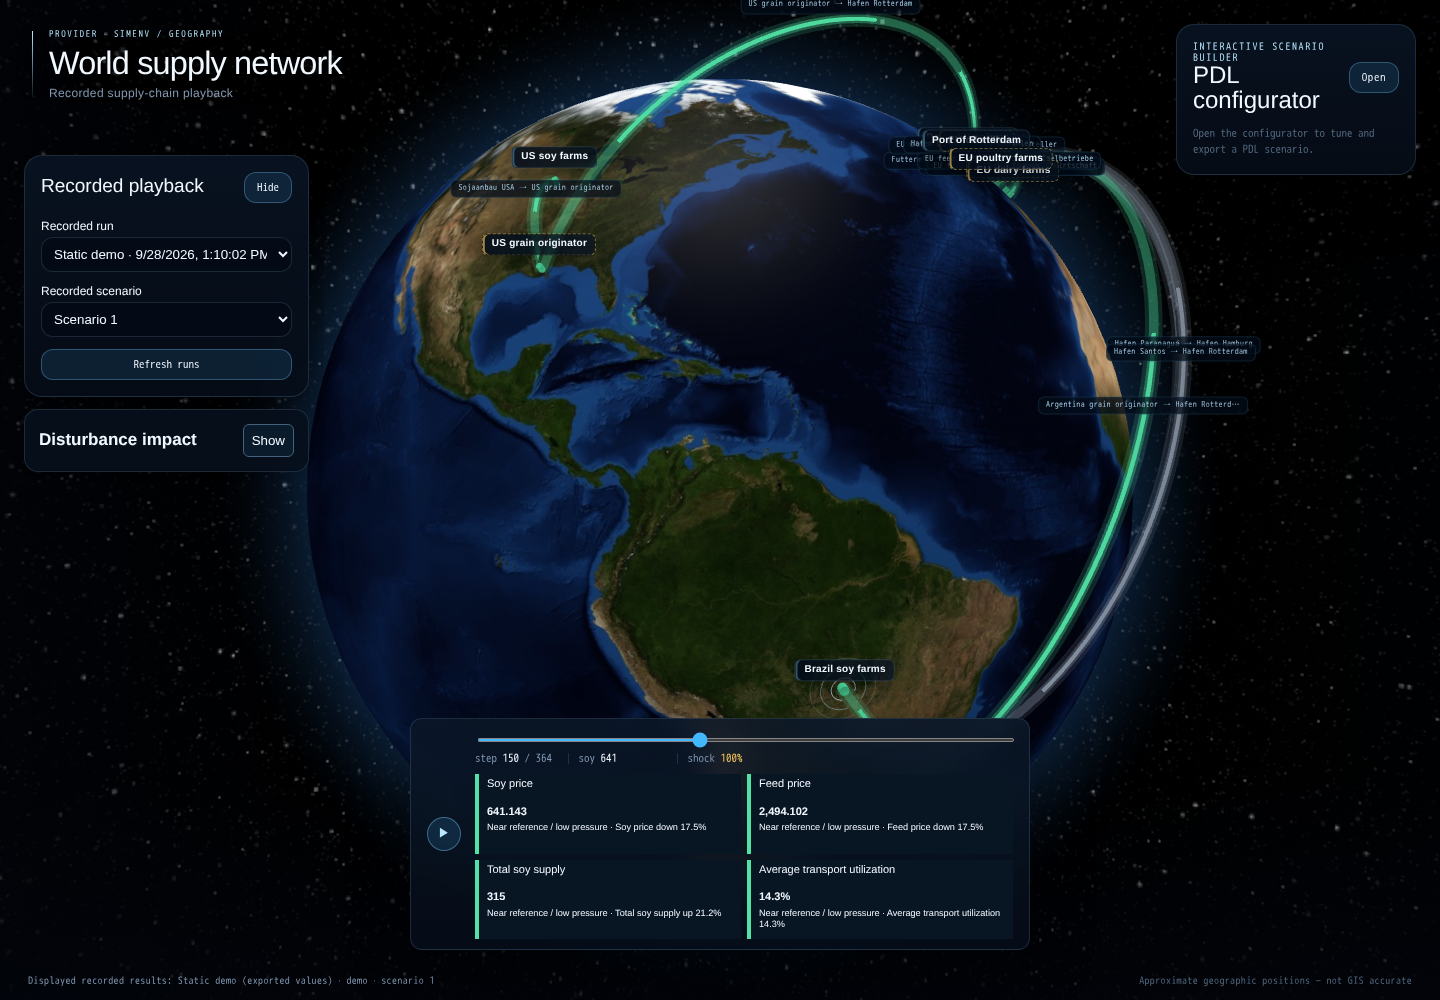
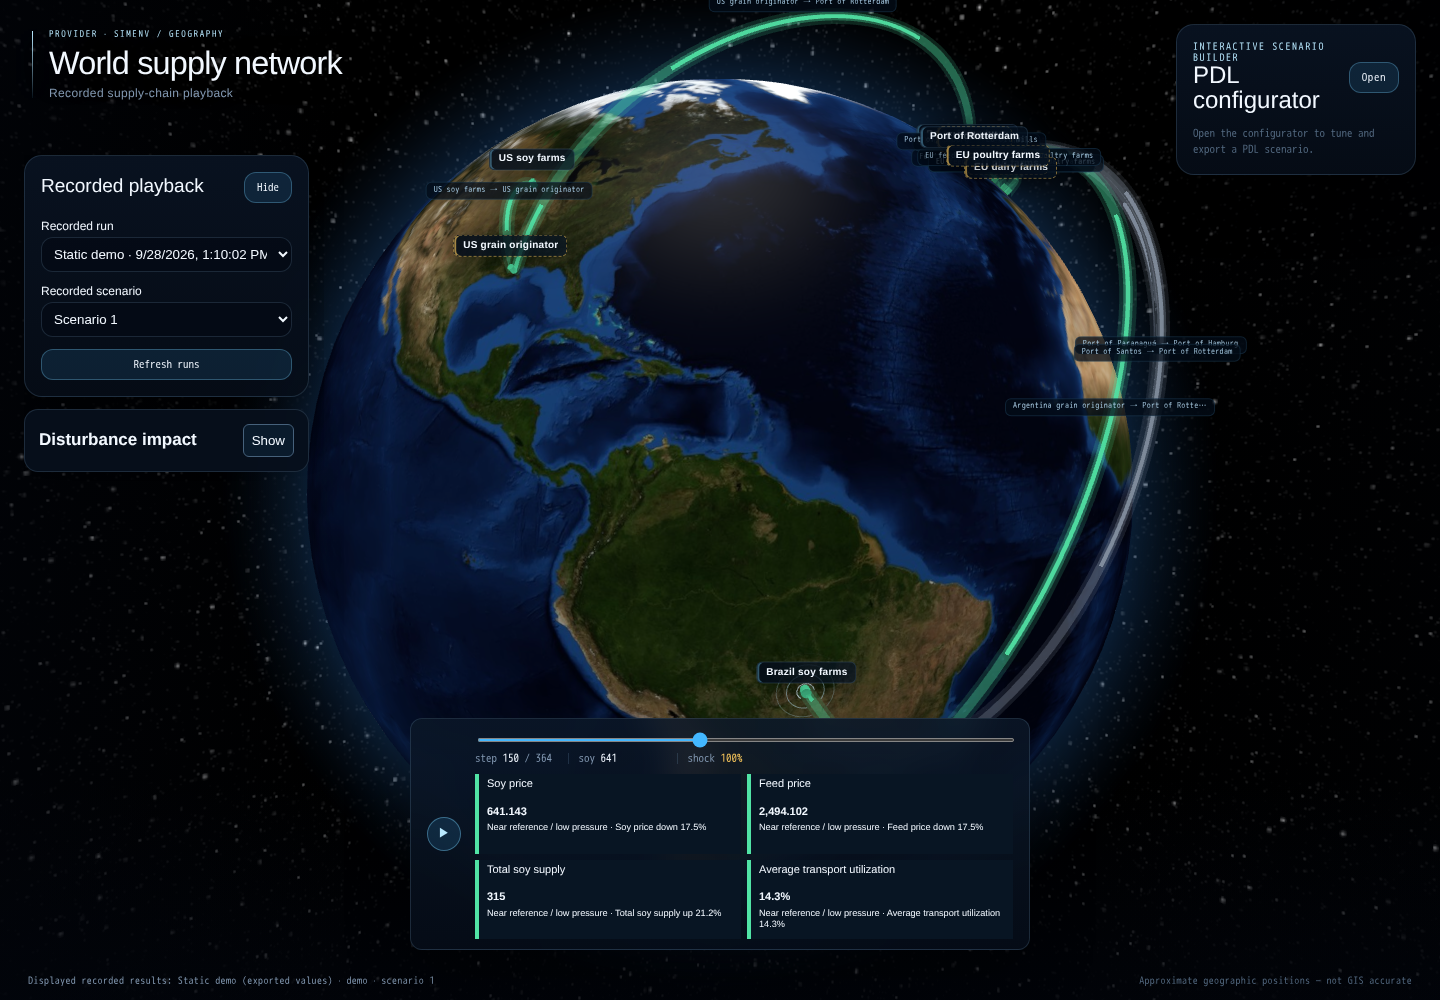
feat: select map components and unify English labels (#75)

Changed region(s): [[0.25, 0.0, 0.875, 0.744], [0.3125, 0.558, 0.3438, 0.589]]

diff --git a/web/src/App.tsx b/web/src/App.tsx
@@ -2,6 +2,7 @@ import { Profiler, useCallback, useEffect, useId, useMemo, useRef, useState, typ
 import { createPortal } from 'react-dom'
 import type { PlaybackSource, RunSummary } from './data/playback'
 import { resolveScene } from './data/gazetteer'
+import { presentScene } from './data/presentation'
 import { designVars } from './design/tokens'
 import GlobeView from './globe/GlobeView'
 import ScenarioConfigurator from './configurator/ScenarioConfigurator'
@@ -118,10 +119,24 @@ function SelectedPlayback({ source, run, scenario, runs, impactSlot }: { source:
   const [selectedNode, setSelectedNode] = useState('')
   const [impactExpanded, setImpactExpanded] = useState(true)
   const impactControlsId = useId()
+  const inspector = useRef<HTMLDivElement | null>(null)
+  const [revealRequest, setRevealRequest] = useState(0)
   const selectedComponent = selectedNode || playback.scene?.nodes[0]?.id || ''
-  const scene = useMemo(() => playback.scene ? resolveScene(playback.scene.nodes, playback.scene.edges) : null, [playback.scene])
+  const displayScene = useMemo(() => playback.scene ? presentScene(playback.scene) : null, [playback.scene])
+  const scene = useMemo(() => displayScene ? resolveScene(displayScene.nodes, displayScene.edges) : null, [displayScene])
   const projected = useMemo(() => playback.scene && playback.frame
     ? projectFrame(playback.scene, playback.frame, reference.frame, playback.baseline) : null, [playback.scene, playback.frame, playback.baseline, reference.frame])
+  const selectFromMap = useCallback((id: string) => {
+    setSelectedNode(id); setImpactExpanded(true)
+    setRevealRequest(value => value + 1)
+  }, [])
+  useEffect(() => {
+    if (!revealRequest || !impactExpanded || !inspector.current) return
+    const target = inspector.current
+    const sidebar = target.closest<HTMLElement>('.sim-playback-sidebar')
+    const scroller = sidebar && getComputedStyle(sidebar).overflowY === 'auto' ? sidebar : target.closest<HTMLElement>('.sim-app')
+    if (scroller) scroller.scrollTop += target.getBoundingClientRect().top - scroller.getBoundingClientRect().top - 12
+  }, [revealRequest, impactExpanded, impactSlot])
   useEffect(() => {
     for (const item of scene?.unplaced ?? []) console.warn(`[gazetteer] not rendered — ${item.kind} "${item.id}": ${item.reason}`)
   }, [scene])
@@ -134,7 +149,7 @@ function SelectedPlayback({ source, run, scenario, runs, impactSlot }: { source:
     {scene && projected && <Profiler id="globe" onRender={(_id, _phase, duration) => {
       measure('playback.react', performance.now() - duration)
     }}><GlobeView markers={scene.markers} edges={scene.edges} markerIntensity={projected.markerIntensity} edgeIntensity={projected.edgeIntensity}
-      selectedNode={selectedComponent} onSelectNode={setSelectedNode} /></Profiler>}
+      selectedNode={selectedComponent} onSelectNode={selectFromMap} /></Profiler>}
     {impactSlot && createPortal(<aside className="sim-status-panel" aria-label="Disturbance impact">
       <header className="sim-status-panel-header"><h2>Disturbance impact</h2>
         <button type="button" aria-expanded={impactExpanded} aria-controls={impactControlsId}
@@ -145,9 +160,11 @@ function SelectedPlayback({ source, run, scenario, runs, impactSlot }: { source:
         <ReferenceSelector runs={runs} choice={referenceChoice} onChange={setReferenceChoice}
         explanation={reference.explanation} loading={reference.loading} error={reference.error} onRetry={reference.retry} />
       <StatusLegend />
-      {playback.scene && playback.frame && projected && <StatusPanel scene={playback.scene} projected={projected}
+      <div ref={inspector}>
+      {displayScene && playback.frame && projected && <StatusPanel scene={displayScene} projected={projected}
         period={playback.frame.period} selected={selectedComponent} onSelect={setSelectedNode}
         reference={[reference.explanation, reference.error].filter(Boolean).join(' ')} />}
+      </div>
       </div>
     </aside>, impactSlot)}
     <div className="sim-playback-notice">

diff --git a/web/src/data/presentation.ts b/web/src/data/presentation.ts
@@ -1,0 +1,62 @@
+import type { Scene } from './playback'
+import type { Node } from './types'
+import { GAZETTEER } from './gazetteer'
+
+/** Recorded names are preserved in data; known shipped names get English UI labels. */
+const germanNames: Record<string, string> = {
+  brazil_farms: 'Sojaanbau Brasilien',
+  argentina_farms: 'Sojaanbau Argentinien',
+  us_farms: 'Sojaanbau USA',
+  santos_port: 'Hafen Santos',
+  paranagua_port: 'Hafen Paranaguá',
+  rotterdam_port: 'Hafen Rotterdam',
+  hamburg_port: 'Hafen Hamburg',
+  eu_oil_mills: 'EU Ölmühlen',
+  feed_mills: 'Futtermittelhersteller',
+  poultry_farms: 'Geflügelbetriebe',
+  pig_farms: 'Schweinebetriebe',
+  dairy_farms: 'Milchwirtschaft',
+  food_retail: 'Lebensmitteleinzelhandel',
+  consumers: 'Verbraucher',
+  alternative_protein_sources: 'Alternative Proteinquellen (Raps, Sonnenblume, Erbsen)',
+  soy_oil_market: 'Sojaöl-Markt (Nebenprodukt Ölmühlen)',
+  us_gulf_ports: 'US-Golfhäfen (New Orleans, Houston)',
+  strategic_feed_reserves: 'Industrielle Futtermittel-Lagerbestände',
+  gas_supply: 'Erdgasversorgung',
+  fertilizer_supply: 'Düngemittelversorgung',
+}
+const additionalEnglishNames: Record<string, string> = {
+  food_retail: 'Food retailers', consumers: 'Consumers',
+  alternative_protein_sources: 'Alternative protein sources (rapeseed, sunflower, peas)',
+  soy_oil_market: 'Soy oil market (oil-mill by-product)',
+  us_gulf_ports: 'US Gulf ports (New Orleans, Houston)',
+  strategic_feed_reserves: 'Strategic feed reserves', gas_supply: 'Natural gas supply',
+  fertilizer_supply: 'Fertilizer supply',
+}
+
+function englishName(id: string): string {
+  return GAZETTEER[id]?.label ?? additionalEnglishNames[id] ?? id
+}
+
+function displayLabel(label: string, entityIds: string[]): string {
+  // Match both identity and exact shipped text. Custom English labels are not
+  // overwritten merely because a run reuses a built-in entity ID.
+  return label.split(' / ').map(part => {
+    const id = entityIds.find(id => germanNames[id] === part)
+    return id ? englishName(id) : part
+  }).join(' / ')
+}
+
+export function presentScene(scene: Scene): Scene {
+  return { ...scene, nodes: scene.nodes.map(node => ({ ...node,
+    label: displayLabel(node.label, node.entityIds),
+    placements: node.placements.map(placement => ({ ...placement,
+      label: displayLabel(placement.label, [placement.entityId]),
+    })),
+  })) }
+}
+
+/** Member names for pooled components, distinct from their technical IDs. */
+export function entityDisplayName(node: Node, id: string): string {
+  return node.placements.find(placement => placement.entityId === id)?.label ?? englishName(id)
+}

diff --git a/web/src/playback/StatusPanel.tsx b/web/src/playback/StatusPanel.tsx
@@ -1,6 +1,7 @@
 import type { Scene } from '../data/playback'
 import type { projectFrame } from './frame'
 import { formatValue, statusColor, statusLabel } from '../design/status'
+import { entityDisplayName } from '../data/presentation'
 
 export function StatusLegend() {
   return <section className="sim-status-legend" aria-label="Status legend">
@@ -32,7 +33,7 @@ export default function StatusPanel({ scene, projected, period, selected, onSele
         ? `Responsible metric: ${status.winner.metric.label} · agent ${status.winner.agent.agent_id} (${status.winner.agent.role}).`
         : 'Responsible metric: unavailable comparison evidence.'}</p>
       <p>Aggregation: strongest individual status across {status.agents.length} recorded agents; values below remain separate.</p>
-      {node.entityIds.length > 1 && <p>Pooled component: {node.entityIds.join(', ')}. Its geographic markers share this assessment.</p>}
+      {node.entityIds.length > 1 && <p>Pooled component: {node.entityIds.map(id => entityDisplayName(node, id)).join(', ')}. Its geographic markers share this assessment.</p>}
       {node.placements.some(item => item.illustrative) && <p>Illustrative geographic placement (not a simulation-status indicator).</p>}
       <p className="sim-reference-note">{reference}</p>
       {status.agents.map(agent => <details key={JSON.stringify(agent.agent)} open={status.agents.length === 1}>

diff --git a/web/src/data/gazetteer.ts b/web/src/data/gazetteer.ts
@@ -122,7 +122,11 @@ export function resolveScene(nodes: Node[], edges: Edge[]): Scene {
       // One marker per entity id. A single-entity node yields one; a pooled node
       // (e.g. eu_farmers) yields several — the required 3-way livestock split.
       for (const eid of node.entityIds) {
-        const g = node.placements.find((placement) => placement.entityId === eid) ?? GAZETTEER[eid]
+        const placement = node.placements.find((placement) => placement.entityId === eid)
+        const fallback = GAZETTEER[eid]
+        // A coordinate fallback must not overwrite a component's custom name.
+        // Pooled markers retain their distinct member labels.
+        const g = placement ?? (fallback && node.entityIds.length === 1 ? { ...fallback, label: node.label } : fallback)
         if (g) {
           const markerId = node.entityIds.length > 1 ? `${node.id}::${eid}` : node.id
           markers.push(toMarker(markerId, node, g))

diff --git a/web/src/globe/GlobeView.tsx b/web/src/globe/GlobeView.tsx
@@ -239,6 +239,8 @@ export default function GlobeView({
           return point.nodeId === selectedNode ? markerTok.selectedRadius : markerTok.radius
         }}
         pointResolution={18}
+        // Decorative connection layers must not steal clicks from node icons.
+        pointerEventsFilter={(_object, data) => !(data && 'edgeId' in data && 'layer' in data)}
         onPointClick={datum => onSelectNode?.((datum as PointDatum).nodeId)}
         pointsMerge={false}
         pointsTransitionDuration={0}

diff --git a/docs/playback.md b/docs/playback.md
@@ -117,6 +117,18 @@ Pooled geographic markers share their roster node's assessment. Multi-agent node
 retain the strongest individual metric status, not an average; ties follow stable
 agent identity and metric-registry order.
 
+Clicking an icon opens **Disturbance impact**, brings its component inspector
+into view and updates the dropdown. Clicking an already selected icon also
+reopens/reveals the details. Decorative connection layers remain visible but do
+not intercept marker clicks. Map and dropdown selection use the same owning node
+ID, including pooled components, and preserve playback, reference and run selection.
+
+A shared English presentation scene supplies node/placement/connection labels,
+dropdown options, headings and pooled member names. Exact built-in German names
+are normalized using represented entity IDs, including historical roster aliases.
+Custom English names are retained. Original recordings, metric values, coordinates
+and reference compatibility checks are unaffected.
+
 ### Fixed illustrative workshop policy
 
 | Indicator | Adverse evidence | Green | Amber | Red |
@@ -226,6 +238,7 @@ for the next run**, separate from the submitted input snapshot.
 - [Collapsed impact sidebar](status-sidebar-collapsed.png).
 - [Static-demo network with restored connections](status-static-network.png) and
   [the same network with impact collapsed](status-static-network-collapsed.png).
+- [Map-icon selection with synchronized English details/dropdown](status-map-selection.png).
 
 The after screenshots use explicitly **controlled recorded-response fixtures**,
 not empirical simulation results. Reproduce from `web/` with Vite configured for

diff --git a/web/README.md b/web/README.md
@@ -33,6 +33,19 @@ same details. Details show the strongest metric/agent, individual current and
 reference values, percentage changes, and missing-data explanations. Pooled
 components and multi-agent strongest-status aggregation are explicit.
 
+Click a component icon on the map to select it: the details panel opens and
+reveals the inspector, and **Inspect component** updates to the same selection.
+The dropdown remains available for keyboard use; both directions share one
+component selection. Connection graphics do not intercept icon clicks, and
+selecting a component does not reset or pause playback. Split livestock markers
+select their shared pooled component.
+
+Built-in component and placement names are consistently displayed in English
+across the map, connections, dropdown and details, including older recordings
+with German metadata. This is a presentation-only projection; recorded values,
+identities and provenance remain unchanged. Custom English names are preserved,
+including when coordinates come from the fallback gazetteer.
+
 - Green: near reference / low pressure; amber: elevated; red: severe; gray:
   unavailable. Prices worsen upward, availability/output downward. All applicable
   metrics contribute. Known adverse evidence survives incomplete coverage;
